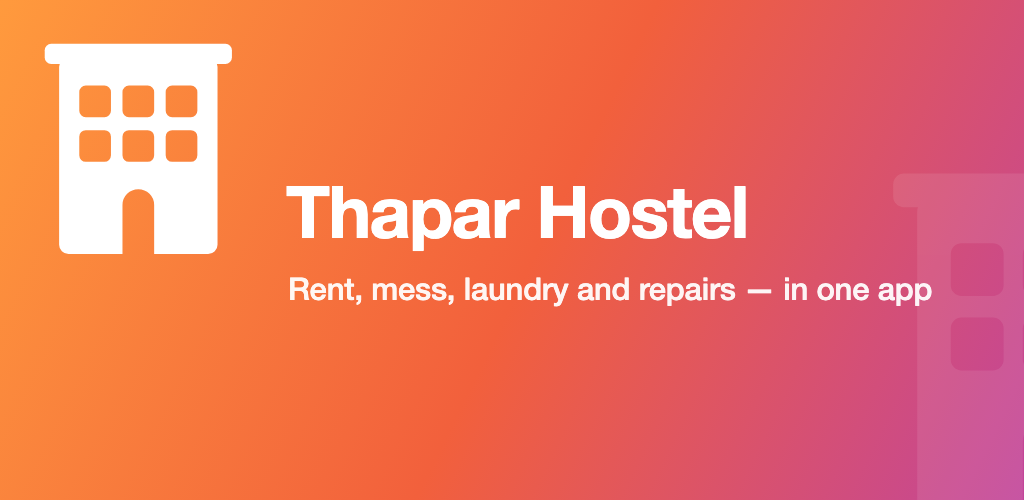
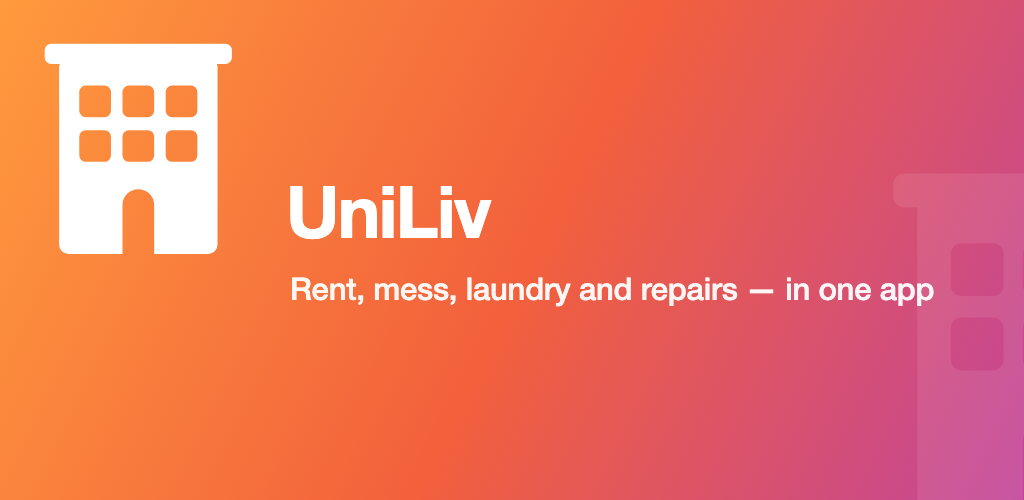
(feat): rename the product to UniLiv
The app is UniLiv; Thapar is the hostel property it is deployed for. Only the
brand strings change — the display name, the iOS permission prompts, the legal
pages served to store reviewers, the admin panel title and the biometric
prompt. Seed and demo data keep "Thapar Institute Campus" and "Thapar Block A",
because that is the property a resident actually lives at, not the product.

The feature graphic is regenerated from the same mark with the new wordmark.
Bundle id, package name and the API domain are unchanged: ids cannot be changed
after a store app exists, and the domain is already cited in the privacy and
data-deletion URLs submitted to both stores.

Changed region(s): [[0.2812, 0.36, 0.75, 0.51], [0.2812, 0.54, 0.7188, 0.6], [0.75, 0.57, 0.9375, 0.63]]

diff --git a/apps/admin/index.html b/apps/admin/index.html
@@ -3,7 +3,7 @@
   <head>
     <meta charset="UTF-8" />
     <meta name="viewport" content="width=device-width, initial-scale=1.0" />
-    <title>Thapar Admin</title>
+    <title>UniLiv Admin</title>
     <link rel="preconnect" href="https://fonts.googleapis.com" />
     <link rel="preconnect" href="https://fonts.gstatic.com" crossorigin />
     <link

diff --git a/apps/api/src/routes/legal.ts b/apps/api/src/routes/legal.ts
@@ -8,7 +8,7 @@ import { Router } from "express";
  */
 export const legalRouter: Router = Router();
 
-const ORG_NAME = "Thapar Hostel";
+const ORG_NAME = "UniLiv";
 const OPERATOR = "Enaa Creations";
 const CONTACT_EMAIL = "support@enaacreations.com";
 const UPDATED = "1 September 2026";

diff --git a/apps/mobile/app/(auth)/login.tsx b/apps/mobile/app/(auth)/login.tsx
@@ -98,7 +98,7 @@ export default function Login() {
     }
 
     const result = await LocalAuthentication.authenticateAsync({
-      promptMessage: "Sign in to Thapar",
+      promptMessage: "Sign in to UniLiv",
       fallbackLabel: "Use MPIN",
     });
 

diff --git a/store/assets/gen.py b/store/assets/gen.py
@@ -1,5 +1,5 @@
 #!/usr/bin/env python3
-"""Render the Thapar Hostel icon set from one SVG mark (see mark.py)."""
+"""Render the UniLiv icon set from one SVG mark (see mark.py)."""
 import os, subprocess
 from mark import mark
 
@@ -52,8 +52,8 @@ FEATURE = f'''<svg xmlns="http://www.w3.org/2000/svg" width="1024" height="500" 
 <g opacity="0.09" transform="translate(742,44) scale(0.60)">{mark("#FFFFFF")}</g>
 <g transform="translate(-46,-34) scale(0.36)">{mark("#FFFFFF")}</g>
 <text x="286" y="238" fill="#FFFFFF" font-size="72" font-weight="700" letter-spacing="-1.6"
-      font-family="Hanken Grotesk, DM Sans, Helvetica Neue, Arial, sans-serif">Thapar Hostel</text>
-<text x="288" y="300" fill="#FFFFFF" fill-opacity="0.94" font-size="31" font-weight="500" letter-spacing="-0.2"
+      font-family="Hanken Grotesk, DM Sans, Helvetica Neue, Arial, sans-serif">UniLiv</text>
+<text x="290" y="300" fill="#FFFFFF" fill-opacity="0.94" font-size="31" font-weight="500" letter-spacing="-0.2"
       font-family="DM Sans, Helvetica Neue, Arial, sans-serif">Rent, mess, laundry and repairs — in one app</text>
 </svg>'''
 FILES["play-feature-graphic"] = (FEATURE, 1024, 500)

diff --git a/store/LISTING.md b/store/LISTING.md
@@ -1,4 +1,4 @@
-# Store listing copy — Thapar Hostel
+# Store listing copy — UniLiv
 
 The text below is what goes into Play Console and App Store Connect. Keep this
 file as the source of truth; edit here first, then paste, so the two stores
@@ -8,7 +8,7 @@ don't drift apart.
 
 | | |
 | --- | --- |
-| App name | Thapar Hostel |
+| App name | UniLiv |
 | Package / bundle id | `com.projthapar.app` |
 | Category | House & Home (Play) / Lifestyle (App Store) |
 | Content rating target | Everyone (IARC) / target audience 18+ |
@@ -26,7 +26,7 @@ Rent, mess, laundry and repairs for your hostel room — all in one app.
 ## Full description (Play, 4000 characters max)
 
 ```
-Thapar Hostel is the resident app for your hostel. Everything you would
+UniLiv is the resident app for your hostel. Everything you would
 otherwise queue at the office for — your room, your rent, your meals, a leaking
 tap — happens on your phone, and you can see exactly what is happening with each
 request.
@@ -70,7 +70,7 @@ EVERYTHING IN ONE PLACE
 "All requests" collects every maintenance job, laundry order, complaint and
 visit in one filterable list, so nothing gets lost between modules.
 
-Thapar Hostel works only with hostels that use the service. Your registration is
+UniLiv works only with hostels that use the service. Your registration is
 approved by your hostel office before you can sign in.
 
 Questions: support@enaacreations.com

diff --git a/store/ACCOUNTS.md b/store/ACCOUNTS.md
@@ -1,4 +1,4 @@
-# Store accounts and IDs — Thapar Hostel
+# Store accounts and IDs — UniLiv
 
 Everything a future release needs, so nothing has to be re-derived. Secrets are
 **not** here; only where to find them.
@@ -9,7 +9,7 @@ Everything a future release needs, so nothing has to be re-derived. Secrets are
 | --- | --- |
 | Developer account | Surbhi Chordia — Individual, Apple Developer Program |
 | Team ID | `UL2P2A75SV` |
-| App Store Connect app | **Thapar Hostel** |
+| App Store Connect app | **UniLiv** |
 | ASC app ID (`ascAppId`) | `6807443425` |
 | Bundle identifier | `com.projthapar.app` |
 | SKU | `thapar-hostel-ios` |
